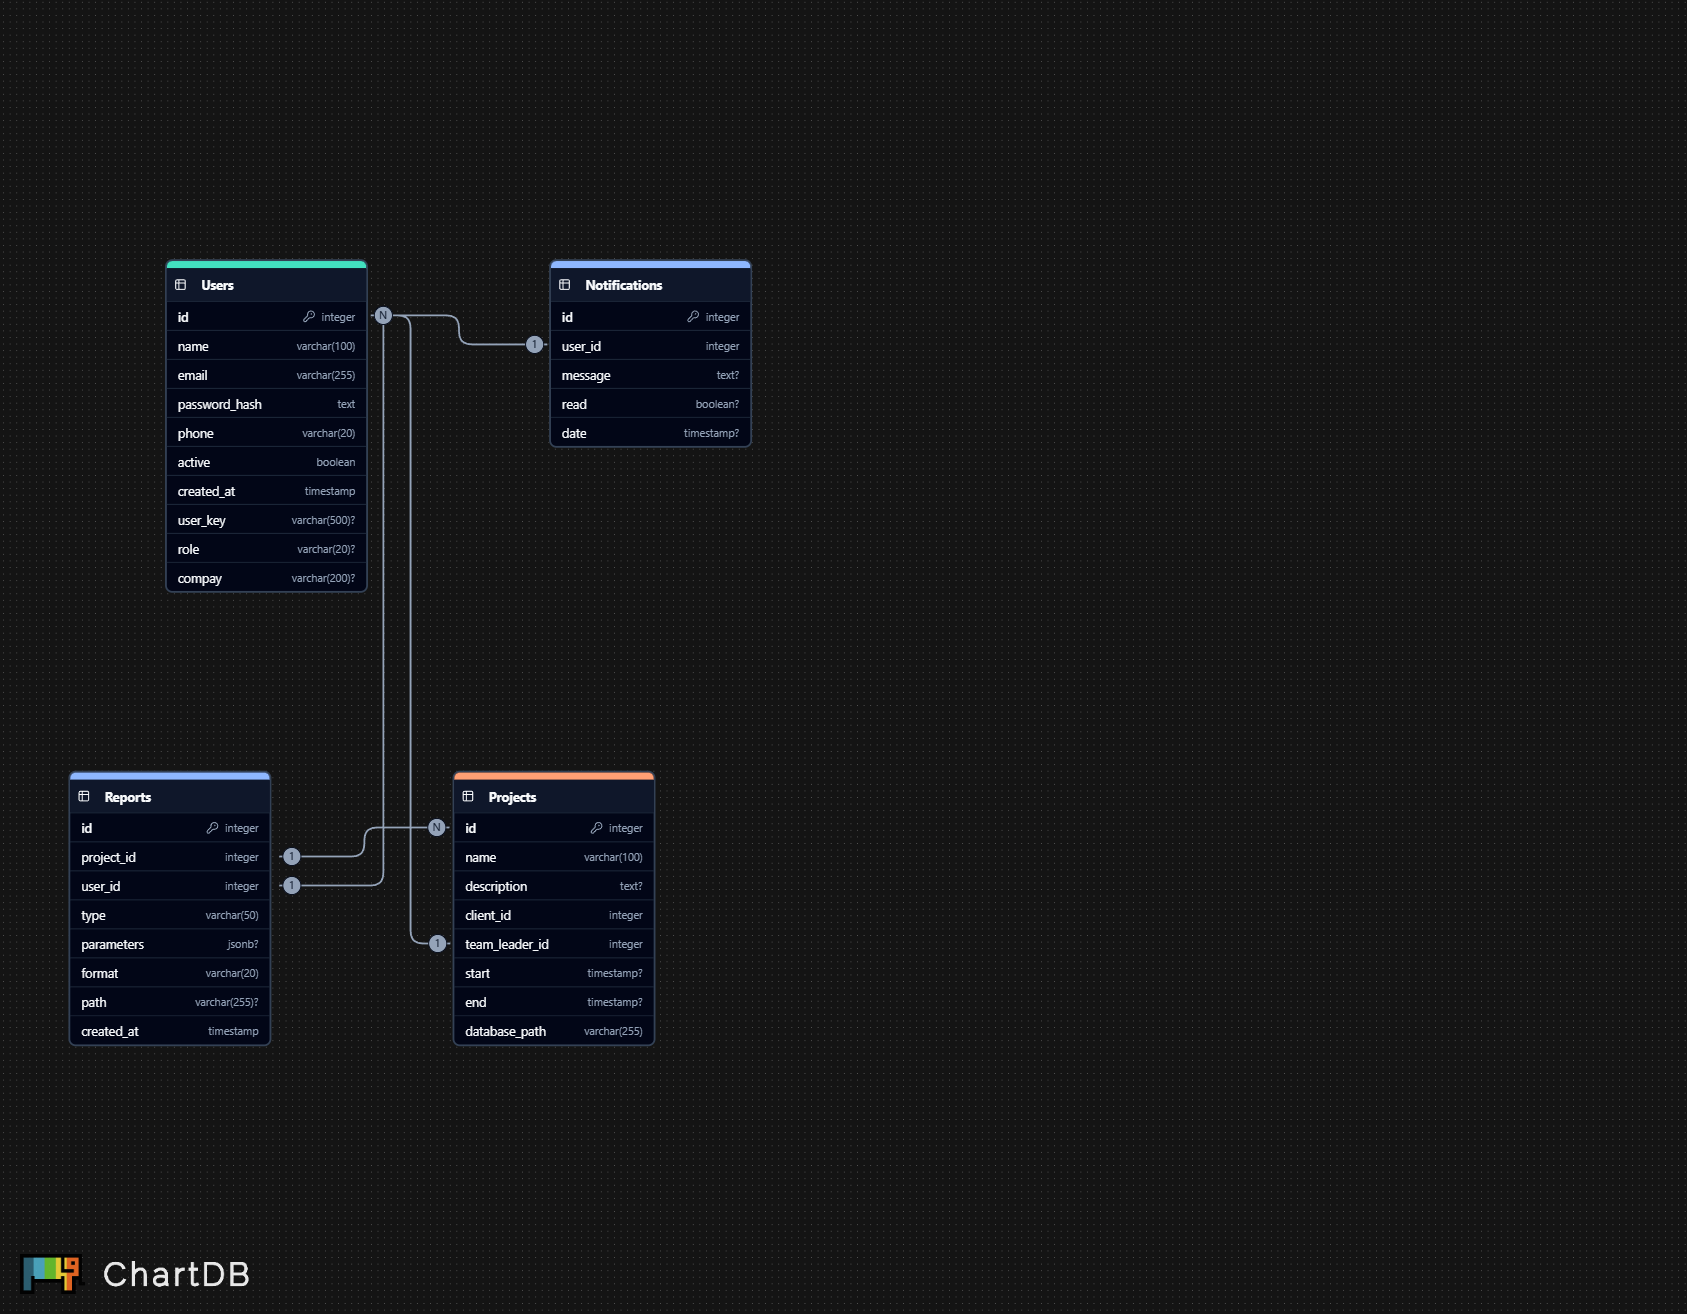
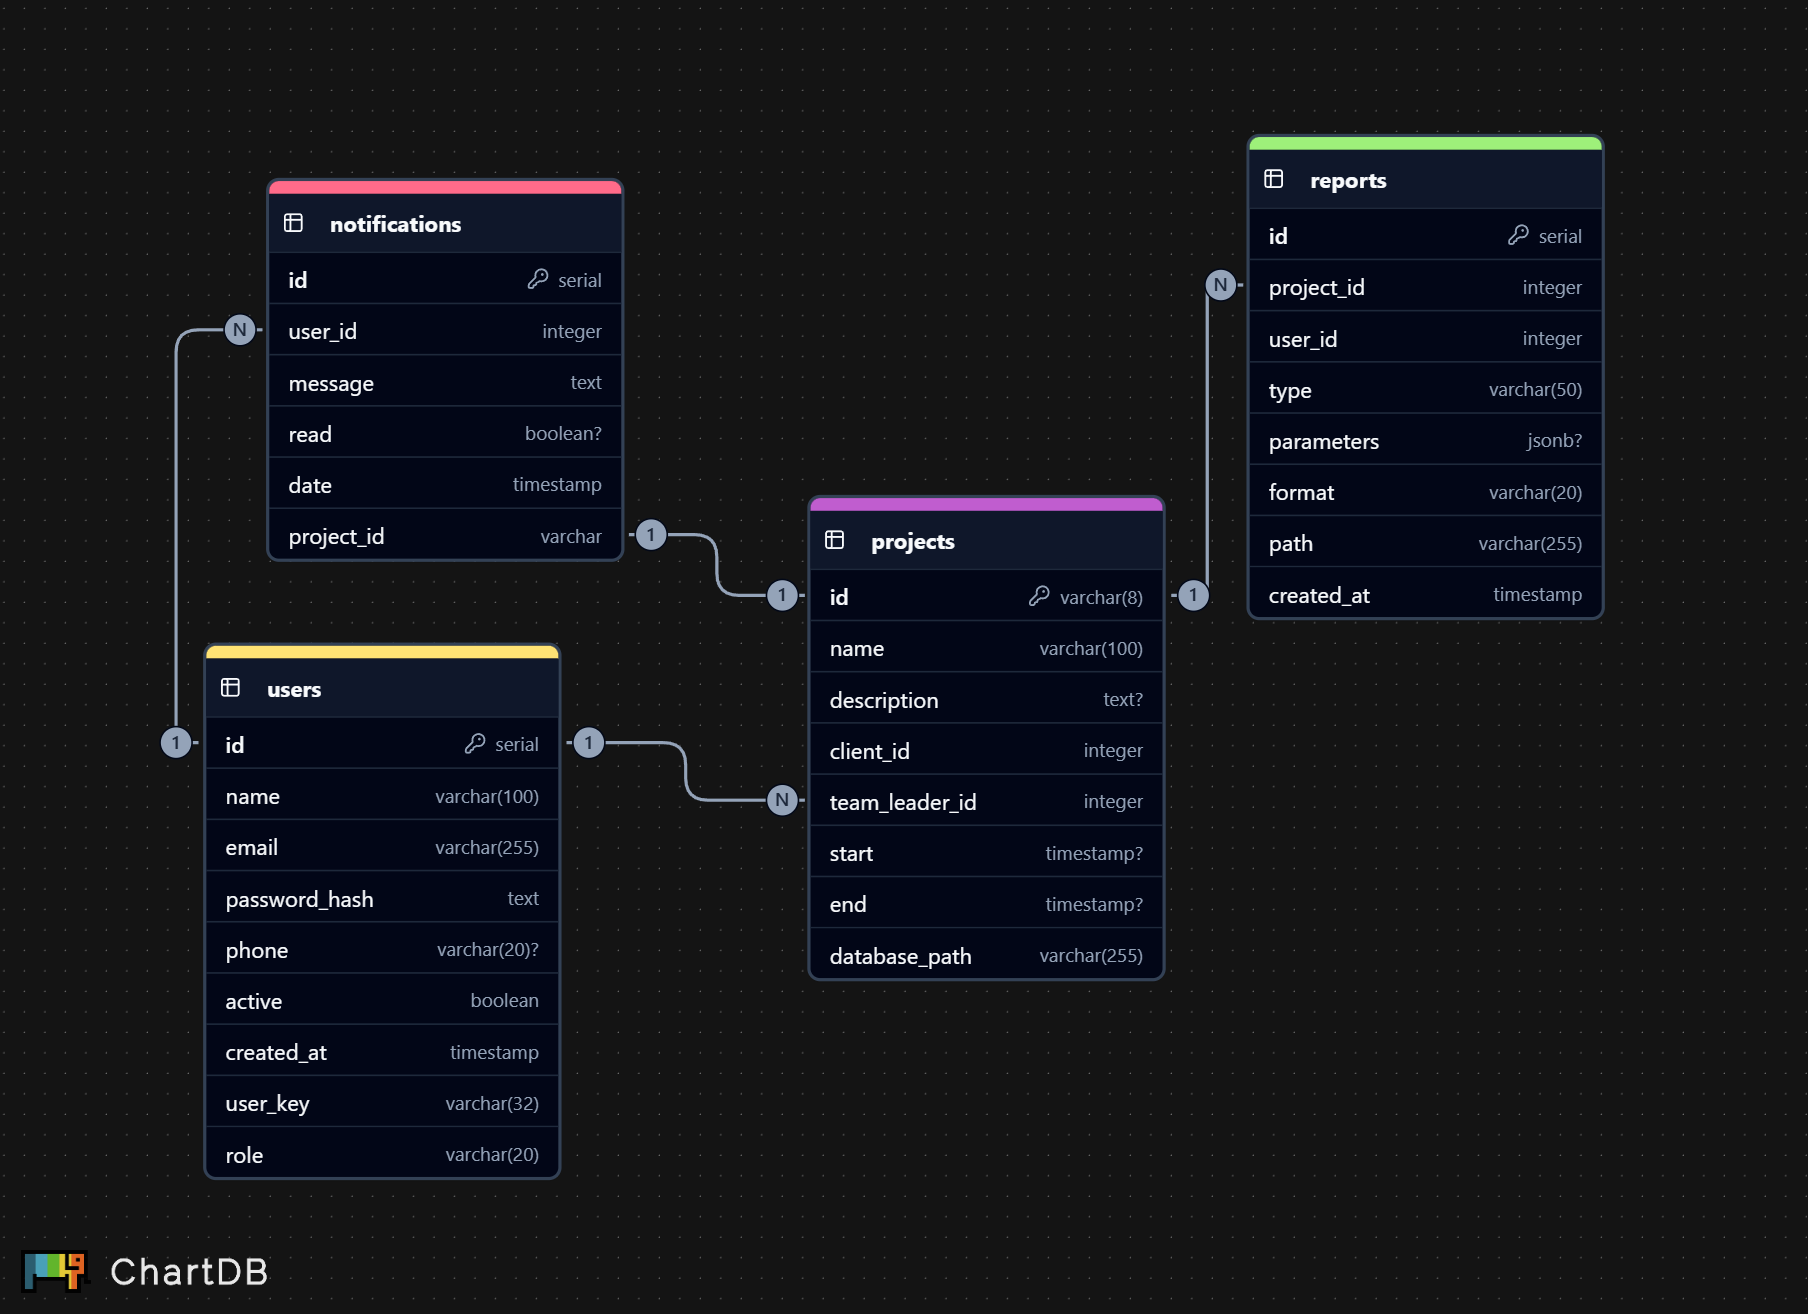
Updated database Image to properly integrate with the current deployment

Changed region(s): [[0.0308, 0.0936, 0.8939, 0.9049], [0.0308, 0.9361, 0.1541, 0.9985]]

diff --git a/postgreSQL/Readme.md b/postgreSQL/Readme.md
@@ -1,45 +1,143 @@
-# Proyecto - Base de Datos
+# Despliegue
 
-#Diagrama
-![alt-text](./Diagram.png "Hover text")
+Esta guía explica cómo levantar una instancia de PostgreSQL usando Docker y ejecutar la inicialización básica del esquema.
 
-#Despliegue Rápido
+## Diagrama de la base de datos
 
-Para desplegar la base de datos en un entorno local o de desarrollo:
+![Diagrama](./Diagram.png)
 
-1.  Asegúrate de tener PostgreSQL instalado y en ejecución.
-2.  Crear la base de datos (si aún no existe) usando `psql` o tu herramienta de DB preferida:
-    En este caso en postgrest
-    CREATE DATABASE mi_proyecto_db;
-    ```
-3.  Conéctate a tu nueva base de datos:
-    ```bash
-    psql -d mi_proyecto_db
-    ```
-4.  Ejecutar el script `schema.sql` para crear todas las tablas y relaciones. Si has clonado el repositorio, puedes ejecutar:
-    ```bash
-    psql -d mi_proyecto_db -U tu_usuario -f schema.sql
-    ```
-    (Reemplaza `mi_proyecto_db` y `tu_usuario` con tus credenciales).
+## Requisitos
 
-Las tablas `Users`, `Projects`, `Notifications`, y `Reports` están creadas.
+Necesitas tener instalado:
 
-# Una vez dentro, ejecuta el comando \dt para listar las tablas:
-    \dt
-    ```
-    
-    Deberías ver una salida similar a esta:
-    
-    ```
-               List of relations
-     Schema |     Name      | Type  |  Owner
-    --------+---------------+-------+----------
-     public | notifications | table | tu_usuario
-     public | projects      | table | tu_usuario
-     public | reports       | table | tu_usuario
-     public | users         | table | tu_usuario
-    (4 rows)
-    ```
+* Docker
+* Docker Compose
 
+## Estructura del Proyecto
 
+```
+postgreSQL/
+├── .env
+├── docker-compose.yml
+├── Diagram.png
+├── db-data/        (se genera automáticamente)
+└── init/
+    └── init.sql
+```
 
+## Configuración
+
+En `postgreSQL/.env` define credenciales y valores básicos. Cambia los valores por algo seguro:
+
+```ini
+POSTGRES_USER=replaceme
+POSTGRES_PASSWORD=replaceme
+POSTGRES_DB=PMaster
+
+PGADMIN_DEFAULT_EMAIL=admin@example.com
+PGADMIN_DEFAULT_PASSWORD=replaceme
+```
+
+Docker Compose usa estas variables al iniciar los contenedores.
+
+En el archivo `init/init.sql` modifica las credenciales de conexión de la base de datos
+
+```sql
+DO $$
+BEGIN
+    IF NOT EXISTS (SELECT 1 FROM pg_roles WHERE rolname = 'changeme') THEN
+        PERFORM format('CREATE ROLE %I LOGIN PASSWORD %L', 'changeme', 'changeme_p');
+    END IF;
+END
+$$;
+GRANT USAGE ON SCHEMA public TO changeme;
+GRANT CREATE ON SCHEMA public TO changeme;
+
+ALTER DEFAULT PRIVILEGES IN SCHEMA public GRANT ALL ON TABLES TO changeme;
+```
+
+Inicio del Servicio
+
+En el directorio `postgreSQL`, ejecuta:
+
+```bash
+docker-compose up -d
+```
+
+Esto levanta:
+
+* `db`: PostgreSQL 15
+* `pgadmin`: interfaz web para administración
+
+El directorio `init/` se monta en el contenedor y ejecuta automáticamente los scripts `.sql` en el primer arranque.
+
+### Qué hace `init.sql`
+
+1. Crea el rol `changeme` si no existe.
+2. Asigna permisos básicos en el esquema `public`.
+3. Crea las tablas:
+
+   * `users`
+   * `projects`
+   * `reports`
+   * `notifications`
+
+## Conexión a la Base de Datos
+
+Puedes conectarte con:
+
+* Host: `127.0.0.1`
+* Puerto: `5432`
+* Base: valor de `POSTGRES_DB`
+* Usuario admin: `POSTGRES_USER`
+* Contraseña admin: `POSTGRES_PASSWORD`
+* Usuario de aplicación: `cilantro` / `cilantro`
+
+## Acceso a PgAdmin
+
+1. Inicia los contenedores (`docker-compose up -d`).
+2. Abre `http://localhost:5050`.
+3. Ingresa con:
+
+   * Email: `PGADMIN_DEFAULT_EMAIL`
+   * Password: `PGADMIN_DEFAULT_PASSWORD`
+
+### Datos para el registro del servidor
+
+En PgAdmin:
+
+* General → Nombre: como quieras
+* Connection:
+
+  * Host: `db`
+  * Port: `5432`
+  * Maintenance DB: `POSTGRES_DB`
+  * Username: `changeme`
+  * Password: `changeme_p`
+
+> El host es `db` porque PgAdmin y PostgreSQL corren en la misma red interna de Docker.
+
+## Persistencia
+
+La información se guarda bajo `./db-data`, que está mapeado al volumen de PostgreSQL.
+Los datos persisten aunque reinicies o detengas los contenedores.
+
+## Apagar Servicios
+
+```bash
+docker-compose down
+```
+
+## Destruir la base de datos
+
+1. Detén contenedores:
+
+   ```bash
+   docker-compose down
+   ```
+2. Elimina `./db-data` (carpeta local).
+3. Levanta nuevamente:
+
+   ```bash
+   docker-compose up -d
+   ```
